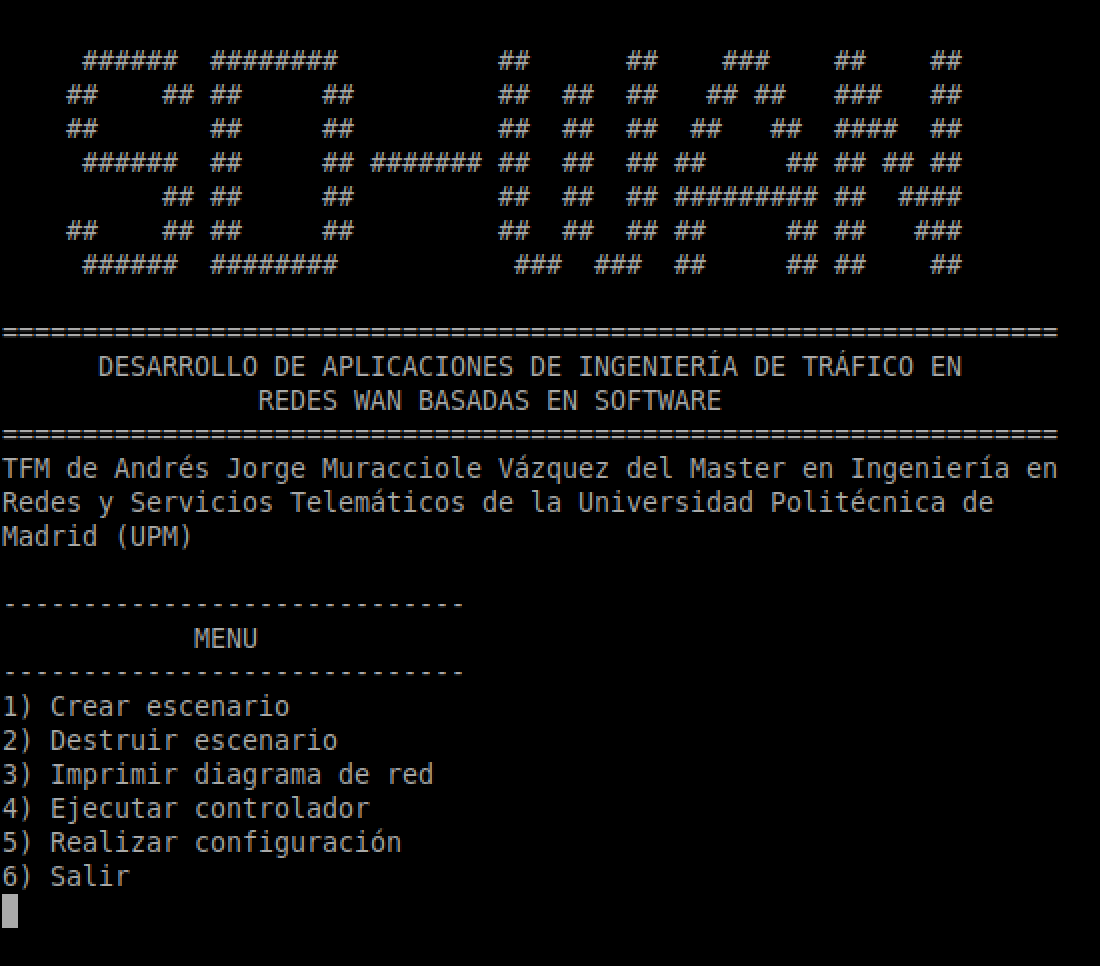
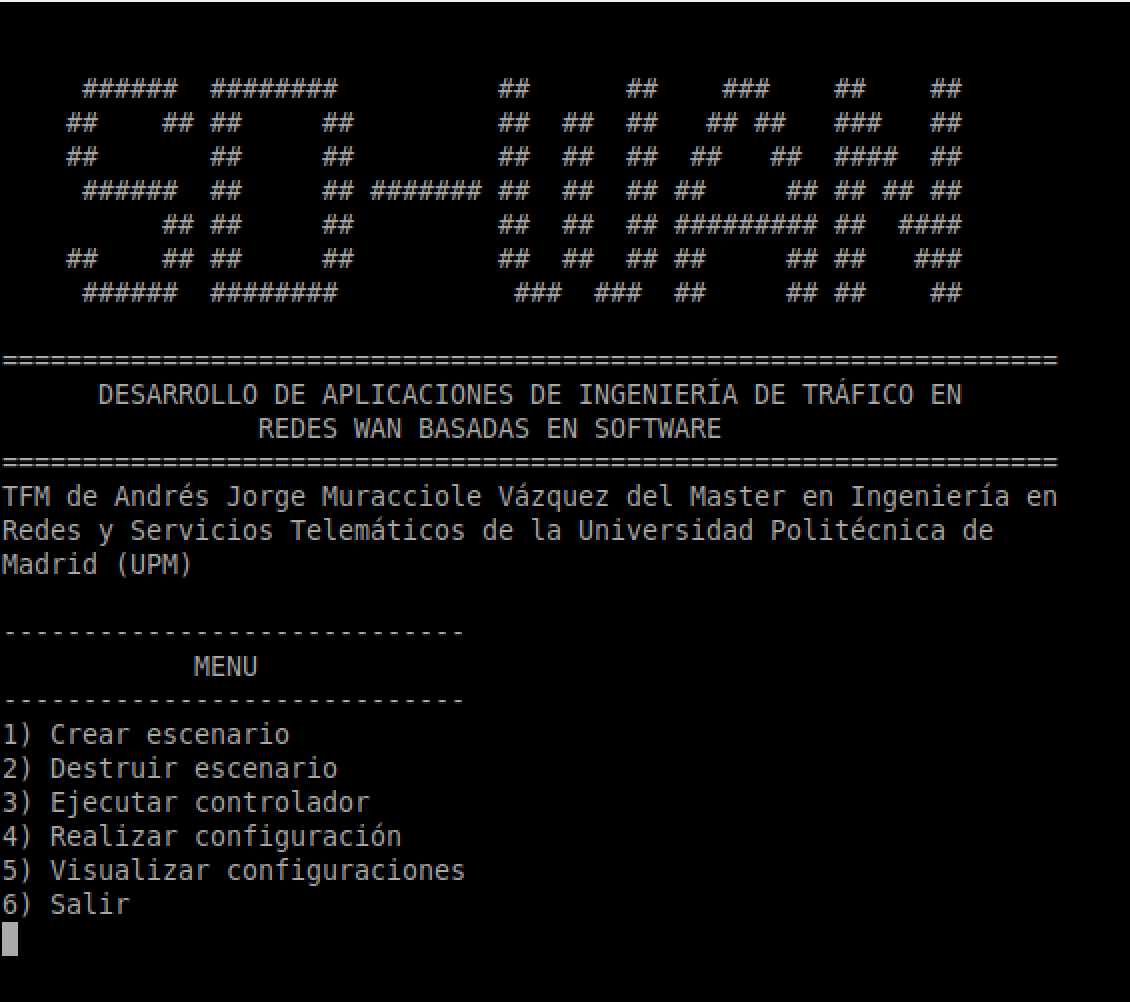
Wondershaper and updates

Changed region(s): [[0.0, 0.3416, 0.9582, 0.5901], [0.0618, 0.0311, 0.8964, 0.3106], [0.0, 0.6211, 0.4018, 0.9627]]

diff --git a/README.md b/README.md
@@ -6,11 +6,11 @@ Este repositorio forma parte del trabajo de TFM de Andrés Muracciole para el Ma
 
 AUTOR: Andrés Muracciole
 
-Este trabajo consiste en el estudio e implementación de una solución de ingeniería de tráfico SDWAN para tratamiento de datos en una red WAN en tiempo real. El objetivo es sensar los caminos hasta el destino y determinar el camino mas óptimo en función del ancho de banda disponible, delay y paquetes perdidos.
+Este trabajo consiste en el estudio e implementación de una solución de ingeniería de tráfico SD-WAN para tratamiento de datos en una red WAN en tiempo real. El objetivo es sensar los caminos hasta el destino y determinar el camino mas óptimo en función del ancho de banda disponible en los canales.
 
 El controlador a utilizar será Ryu y se hará un fuerte uso de su [API](https://ryu.readthedocs.io/en/latest/app/ofctl_rest.html#).
 
-En escenario tiene la particularidad de tener una topologia "tipo pez" de forma que se crea un loop se conmutadores como se puede apreciar en la [figura](https://github.com/amuracciole/TrafficEngineering_SDWAN/blob/master/Imagenes/Topologia.png). Aquí radica la dificultad del escenario ya que se debe aplicar una solución óptima para que no queden paquetes en el loop haciendo que se congestione la red.
+El escenario tiene la particularidad de tener una topologia "tipo pez" de forma que se crea un loop se conmutadores como se puede apreciar en la [figura](https://github.com/amuracciole/TrafficEngineering_SDWAN/blob/master/Imagenes/Topologia.png). Aquí radica la dificultad del escenario ya que se debe aplicar una solución óptima para que no queden paquetes en el loop haciendo que se congestione la red.
 
 ![tablas](https://github.com/amuracciole/TrafficEngineering_SDWAN/blob/master/Imagenes/Tablas.png)
 
@@ -26,25 +26,58 @@ Esto levanta una interfaz de menu en la terminal desde onde se pueden realizar l
 
 2. Destruir escenario
 
-3. Imprimir diagrama de red
+3. Ejecutar controlador
 
-4. Ejecutar controlador
+4. Realizar configuración
 
-5. Realizar configuración
+5. Visualizar configuración
 
-Al seleccionar la tercer opción, por defecto se envía todo el tráfico por el camino mas corto.
+Al seleccionar la tercer opción, por defecto se envía todo el tráfico por el camino mas corto. Lugo el usuario mediante la ***opción 4*** será capaz de poder configurar el camino que desea que tome cada tipo de tráfico identificándolo por IP/ARP y direcciones IP origen y destino
 
-Desde el ***punto 5*** es posible seleccionar:
+Desde el ***punto 4*** es posible seleccionar:
 
-1. El camino que toma TODO el tráfico IPv4
+-  El camino que toma TODO el tráfico IPv4
 
-2. El camino que toma TODO el tráfico ARP
+-  El camino que toma TODO el tráfico ARP
 
-3. El camino que toma DETERMINADO tráfico IPv4 (En función de la srs_IP y dst_IP)
-***Este punto todavía no se encuentra operativo***
+-  El camino que toma DETERMINADO tráfico IPv4 (En función de la srs_IP y dst_IP)
 
+- Eliminar cierta fila en las tablas de flujo
 
-***Me encuentro trabajando para poder optimizar la selección del camnimo en función del BW, delay y packet lost. Estos parámetros se obtienen del controlador [modificado](https://github.com/amuracciole/TrafficEngineering_SDWAN/blob/master/simple_monitor_13_modify2.py). Para ello es necesario obtener dicha informació y tomar la desición en tiempo real***
+### 1 - Crear escenario
+
+Levanta el escenario Lab_TFM.xml. Conjuntamente con este se ejecuta un [script]() que limita el ancho de banda de los canales a 100 Mbps.
+
+Para ello es necesario de antemano tener instalado el **wondershaper** mediante los siguientes comandos:
+```
+git clone https://github.com/magnific0/wondershaper.git
+cd wondershaper
+sudo make install
+```
+
+### 2 - Destruir escenario
+
+Elimina el escenario creado en el ***punto 1***
+
+### 3 - Ejecutar controlador
+
+En este punto se levanta el controladore RYU y se pone por defecto una regla que todo el tráfico IP y ARP se encamine por el camino mas corto (CONM_A - CONM_C - CONM_E)
+
+### 4 - Realizar configuración
+
+Desde aquí se puede agregar reglas para en las tablas de flujos así como también eliminar aquellas anteriormente creadas. Está configurado para que solo se eliminen aquellas con ***prio=10***, es decir aquellas creadas explicitamente por el usuario para encaminar determinado tráfico IP en función de sus direcciones IP origen y destino.
+
+### 5 - Visualizar configuración
+
+Se puede ver tanto desde información de los conmutadores en general, como la tablas de flujo, grupos y puertos de los mismos. A su vez es posible consultar la versión de OpenVSwitch o mism oimprimir el diagrama de red del escenario
+
+***Me encuentro trabajando para poder optimizar la selección del camnimo en función del BW. Estos parámetros se obtienen del controlador [modificado](https://github.com/amuracciole/TrafficEngineering_SDWAN/blob/master/simple_monitor_13_modify2.py). Para ello es necesario obtener dicha informació y tomar la desición en tiempo real***
+
+## Pendientes:
+
+1. Realizar la función para medir el tiempo real el ancho de banda disponible en los canales y así determinar el mejor camino. Tener en cuenta el número de puerto así como también si el tráfico es TCp o UDP.
+
+2. En caso de que haya tiempo ver si se puede agregar una interfaz gráfica para ver en colores por donde se envía el tráfico
 
 ## Fuentes de referencias:
 
